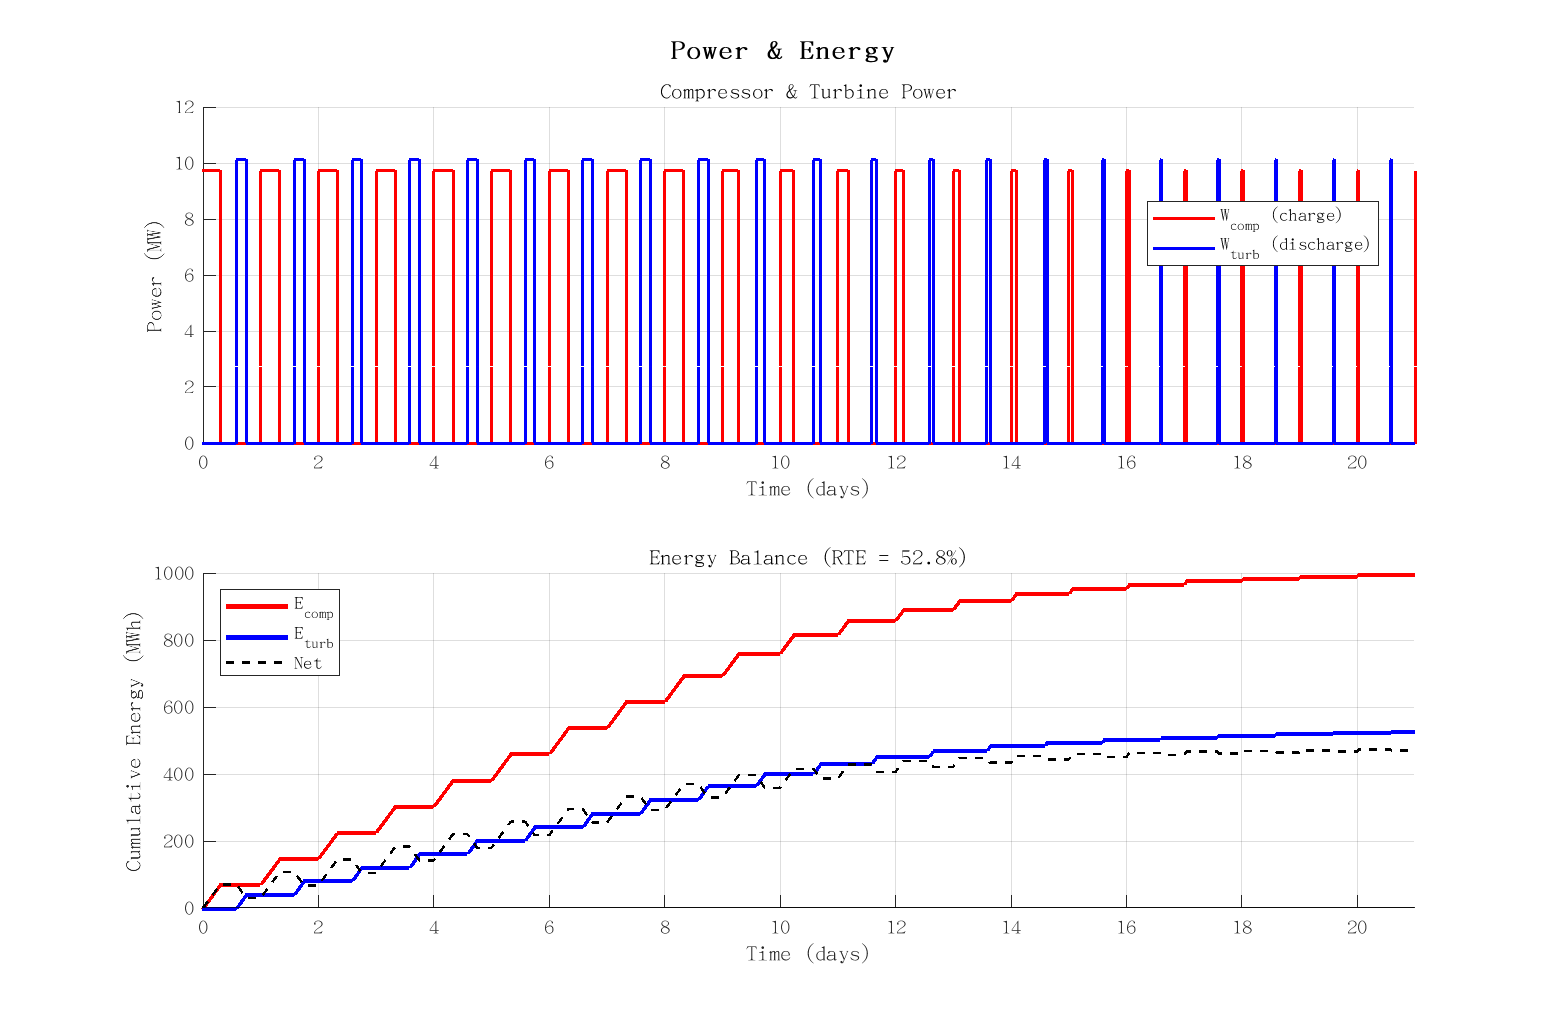
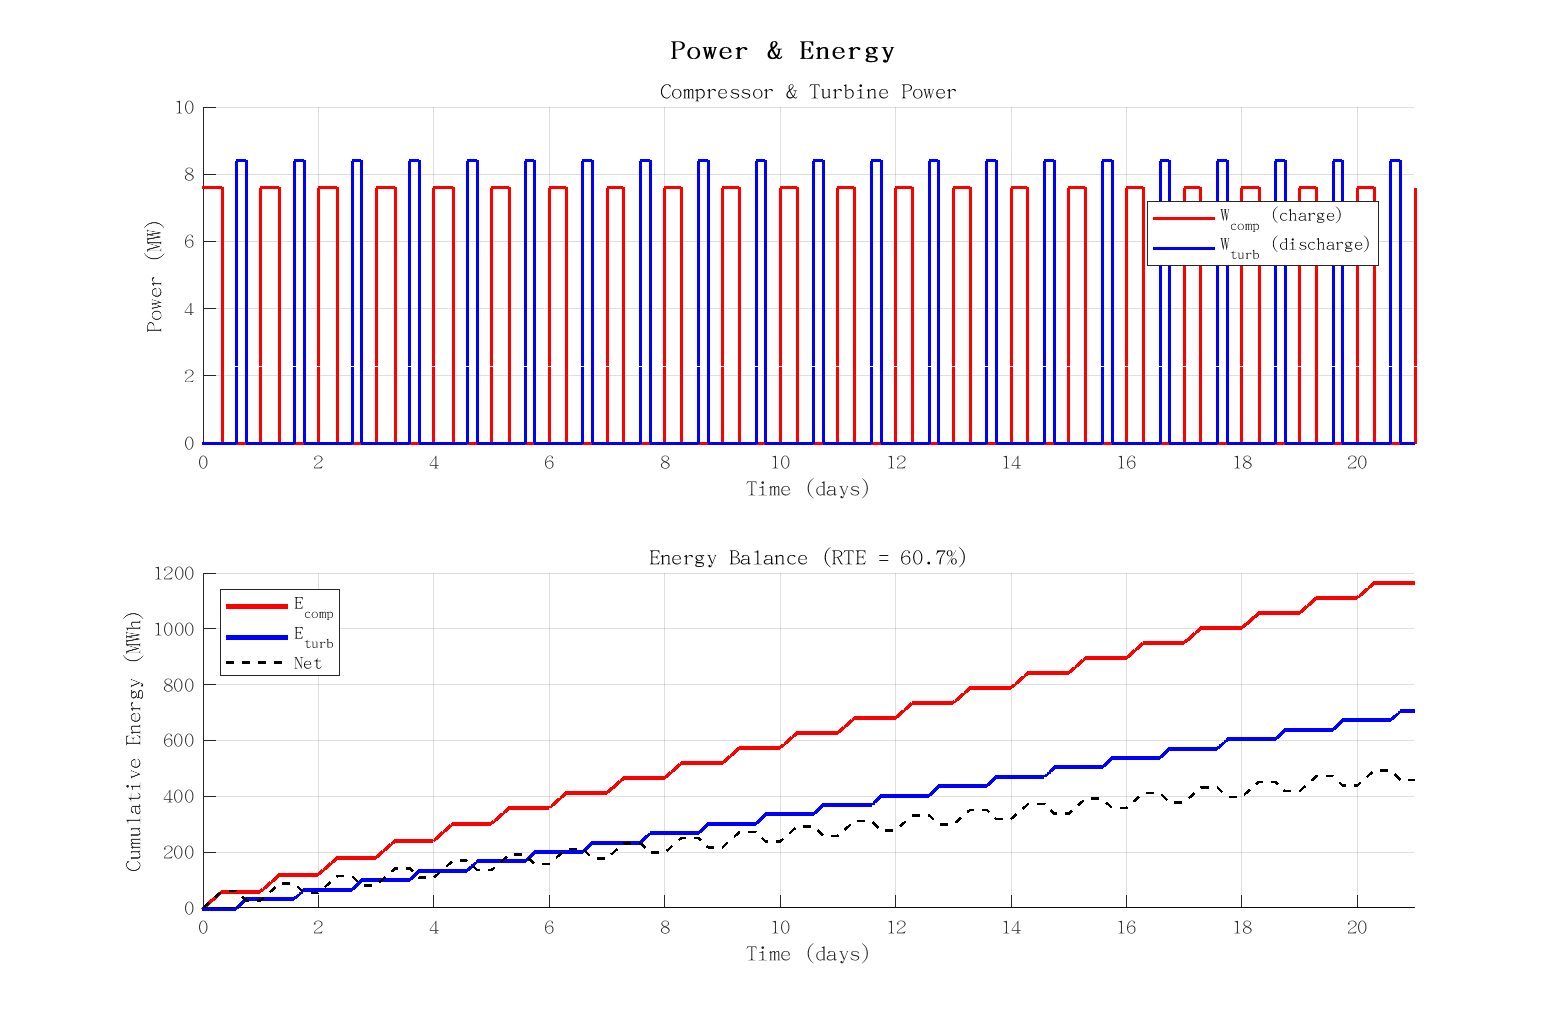
fix: correct mass variable (was set to density value), clean up variable names
Two critical bugs: m=x(1) was accidentally set to p.rl(1) (density~713)
causing HPT to appear empty. Wr=Qr typo cleaned up.

diff --git a/CCES_CHP_Simulink/src/ode/ode_dynamics.m b/CCES_CHP_Simulink/src/ode/ode_dynamics.m
@@ -14,7 +14,7 @@ if isempty(p)
     fprintf('平衡点: Th=%.0fK | Wc=%.1f Wt=%.1f MW | %.0fh/%.0fh\n',p.Th,p.Wc,p.Wt,p.tc,p.td);
 end
 
-m=p.rl(1); Vh=max(0,min(p.Vt(1),x(2))); Tt=x(3);  %#ok<NASGU>
+m=x(1); Vh=max(0,min(p.Vt(1),x(2))); Tt=x(3);
 
 % 调度
 th=mod(t/3600,24); ti=(24-p.tc-p.td)/2;
@@ -33,7 +33,7 @@ elseif mode==-1 && ok_d
     md=p.ad*p.Wt; dm=-md;
     [~,qr]=discharge_per_kg(p.lib,p.Fluid,Tt,p.Th); Qr=qr*md/1000;
     dV=-Qr*1000/(p.rho_cp*(p.Th-p.Tc));
-    dT=-md*3e-5; Wc=0; Qi=0; Wt=p.Wt; Wr=Qr; %#ok<NASGU>
+    dT=-md*3e-5; Wc=0; Qi=0; Wt=p.Wt; Qr2=Qr;
 else
     dm=0; dV=0; dT=(298-Tt)/50000; Wc=0; Qi=0; Wt=0; Qr=0;
 end
